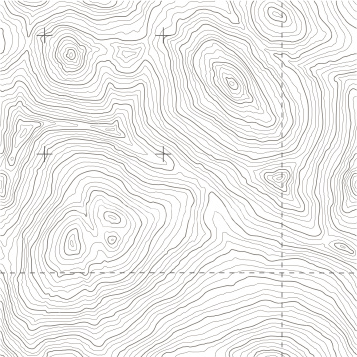
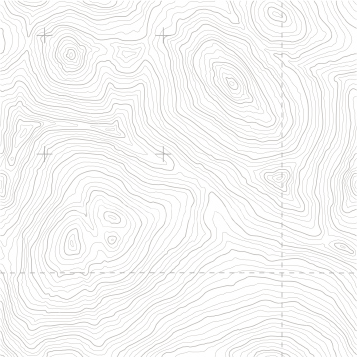
fixed border issue and modfied the bg topo

diff --git a/css/gozulla.css b/css/gozulla.css
@@ -333,17 +333,22 @@
  }
  
  #columns div.columns-inner {
-   border: 1px solid #000000;
+   border: 1px solid #414141;
  }
  
  #content-column .content-inner .two-50 {
-   border-top: 1px solid #000000;
+   border-top: 1px solid #414141;
  }
  
- #columns .block-region-sidebar-second {
-   border-left: 1px solid #000000;
+ .sidebar-second .content-inner {
+   border-right: 1px solid #414141;
  }
  
- .block-region-two-50-first {
-   border-right: 1px solid #000000;
+ /*#columns .block-region-sidebar-second {
+   border-left: 1px solid #414141;
+ }
+*/
+ .two-50 .region-two-50-first {
+     width: 49%;
+     border-right: 1px solid #414141;
  }
